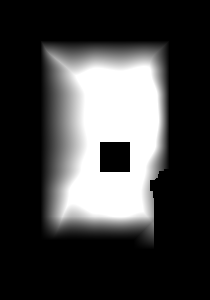
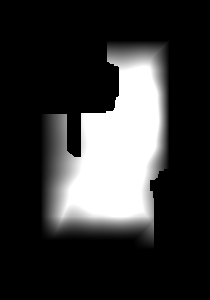
EPO03 east: E1 roll 2 rejected (a fresh dark honeycomb); add the ribbon cut to atlas-maskcut and narrow E1 to the ice margin

Changed region(s): [[0.2, 0.12, 0.5714, 0.54], [0.4571, 0.45, 0.6286, 0.6]]

diff --git a/GAME_BIBLE/ART/exploration/EPO03/tools/atlas-maskcut.js b/GAME_BIBLE/ART/exploration/EPO03/tools/atlas-maskcut.js
@@ -41,6 +41,15 @@ const seaMargin = cut.seaMargin === undefined ? 24 : cut.seaMargin;
 const inpaintMargin = cut.inpaintMargin === undefined ? Math.max(0, seaMargin - 6) : cut.inpaintMargin;
 const minLand = cut.minLand === undefined ? 40 : cut.minLand;
 const holeInflate = cut.holeInflate === undefined ? 2 : cut.holeInflate;
+// (c) EPO03 east, added after E1 rolls 1-2: an optional RIBBON cut. Land (ice)
+// further than `cut.landMargin` px from the nearest open water is forced to 0,
+// so the authorization becomes a band straddling the ice margin and the pack
+// interior is frozen. Two rolls proved the tool answers a wide ice mask with a
+// generator pattern (a slab, then a fresh honeycomb); a ribbon leaves it no
+// room to invent one. Narrows only, never widens (G-4). Undefined = disabled.
+const landMargin = cut.landMargin === undefined ? null : cut.landMargin;
+const landInpaintMargin = cut.landInpaintMargin === undefined
+  ? (landMargin === null ? null : landMargin - 6) : cut.landInpaintMargin;
 const holes = cut.holes || [];
 
 const src = png.load(path.join(ROOT, 'src', 'atlas', `${id}_crop.png`));
@@ -103,23 +112,73 @@ while (q.length) {
   }
   q = next;
 }
+// 3b. Chebyshev distance from each pixel to the nearest NON-big-land pixel
+// (open water, a lead, or brash below minLand) — the ribbon cut uses it.
+const wet = new Int32Array(w * h).fill(1e9);
+if (landMargin !== null) {
+  // Sources are the OPEN SEA only — the largest connected water body — not the
+  // leads inside the pack, or every ice pixel would be "coastal" and the cut
+  // would do nothing (measured: 0 px on E1 roll 3 attempt 1).
+  const sea = new Uint8Array(w * h);
+  for (let s2 = 0; s2 < w * h; s2++) if (!land[s2]) sea[s2] = 1;
+  const scomp = new Int32Array(w * h).fill(-1); const ssz = []; const sstack = [];
+  for (let s2 = 0; s2 < w * h; s2++) {
+    if (!sea[s2] || scomp[s2] !== -1) continue;
+    const c = ssz.length; ssz.push(0); sstack.push(s2); scomp[s2] = c;
+    while (sstack.length) {
+      const p2 = sstack.pop(); ssz[c]++;
+      const px = p2 % w, py = (p2 / w) | 0;
+      for (let dy = -1; dy <= 1; dy++) for (let dx = -1; dx <= 1; dx++) {
+        if (!dx && !dy) continue;
+        const nx = px + dx, ny = py + dy;
+        if (nx < 0 || ny < 0 || nx >= w || ny >= h) continue;
+        const n = ny * w + nx;
+        if (sea[n] && scomp[n] === -1) { scomp[n] = c; sstack.push(n); }
+      }
+    }
+  }
+  let best = -1; for (let c = 0; c < ssz.length; c++) if (best < 0 || ssz[c] > ssz[best]) best = c;
+  let qw = [];
+  for (let s2 = 0; s2 < w * h; s2++) if (sea[s2] && scomp[s2] === best) { wet[s2] = 0; qw.push(s2); }
+  while (qw.length) {
+    const next = [];
+    for (const p2 of qw) {
+      const px = p2 % w, py = (p2 / w) | 0, d = wet[p2] + 1;
+      for (let dy = -1; dy <= 1; dy++) {
+        for (let dx = -1; dx <= 1; dx++) {
+          if (!dx && !dy) continue;
+          const nx = px + dx, ny = py + dy;
+          if (nx < 0 || ny < 0 || nx >= w || ny >= h) continue;
+          const n = ny * w + nx;
+          if (wet[n] > d) { wet[n] = d; next.push(n); }
+        }
+      }
+    }
+    qw = next;
+  }
+}
+
 const inHole = (ax, ay, inflate) => holes.some((r) =>
   ax >= r.x - inflate && ax < r.x + r.w + inflate && ay >= r.y - inflate && ay < r.y + r.h + inflate);
 
 // 4. Narrow the shipping mask; build the PixelLab mask.
 const ip = region.inpaint;
 const paint = new png.Raster(w, h);
-let cutSea = 0, cutHole = 0, white = 0, kept = 0;
+let cutSea = 0, cutHole = 0, cutDeep = 0, white = 0, kept = 0;
 for (let y = 0; y < h; y++) {
   for (let x = 0; x < w; x++) {
     const s = y * w + x, ax = region.x + x, ay = region.y + y;
     const mi = mask.idx(x, y);
     const openSea = !big[s] && dist[s] > seaMargin;
     if (mask.data[mi] > 0 && openSea) { cutSea++; mask.data[mi] = mask.data[mi + 1] = mask.data[mi + 2] = 0; }
+    const deepIce = landMargin !== null && wet[s] > landMargin;
+    if (mask.data[mi] > 0 && deepIce) { cutDeep++; mask.data[mi] = mask.data[mi + 1] = mask.data[mi + 2] = 0; }
     if (mask.data[mi] > 0 && inHole(ax, ay, 0)) { cutHole++; mask.data[mi] = mask.data[mi + 1] = mask.data[mi + 2] = 0; }
     if (mask.data[mi] > 0) kept++;
     const inRect = ip && x >= ip.x && x < ip.x + ip.w && y >= ip.y && y < ip.y + ip.h;
-    const paintable = inRect && !(!big[s] && dist[s] > inpaintMargin) && !inHole(ax, ay, holeInflate);
+    const paintable = inRect && !(!big[s] && dist[s] > inpaintMargin)
+      && !(landInpaintMargin !== null && wet[s] > landInpaintMargin)
+      && !inHole(ax, ay, holeInflate);
     const v = paintable ? 255 : 0;
     if (paintable) white++;
     const pi = paint.idx(x, y);
@@ -129,6 +188,7 @@ for (let y = 0; y < h; y++) {
 png.save(maskPath, mask);
 const paintPath = path.join(ROOT, 'src', 'atlas', `${id}_inpaint.png`);
 png.save(paintPath, paint);
-console.log(`${id} cut: sea ${cutSea} px zeroed (margin ${seaMargin}), holes ${cutHole} px zeroed, ` +
+console.log(`${id} cut: sea ${cutSea} px zeroed (margin ${seaMargin}), deep ice ${cutDeep} px zeroed ` +
+  `(landMargin ${landMargin}), holes ${cutHole} px zeroed, ` +
   `${kept} px still authorized; inpaint mask ${white} px white (margin ${inpaintMargin}, ` +
   `holes +${holeInflate}) -> ${path.relative(REPO, paintPath)}`);
